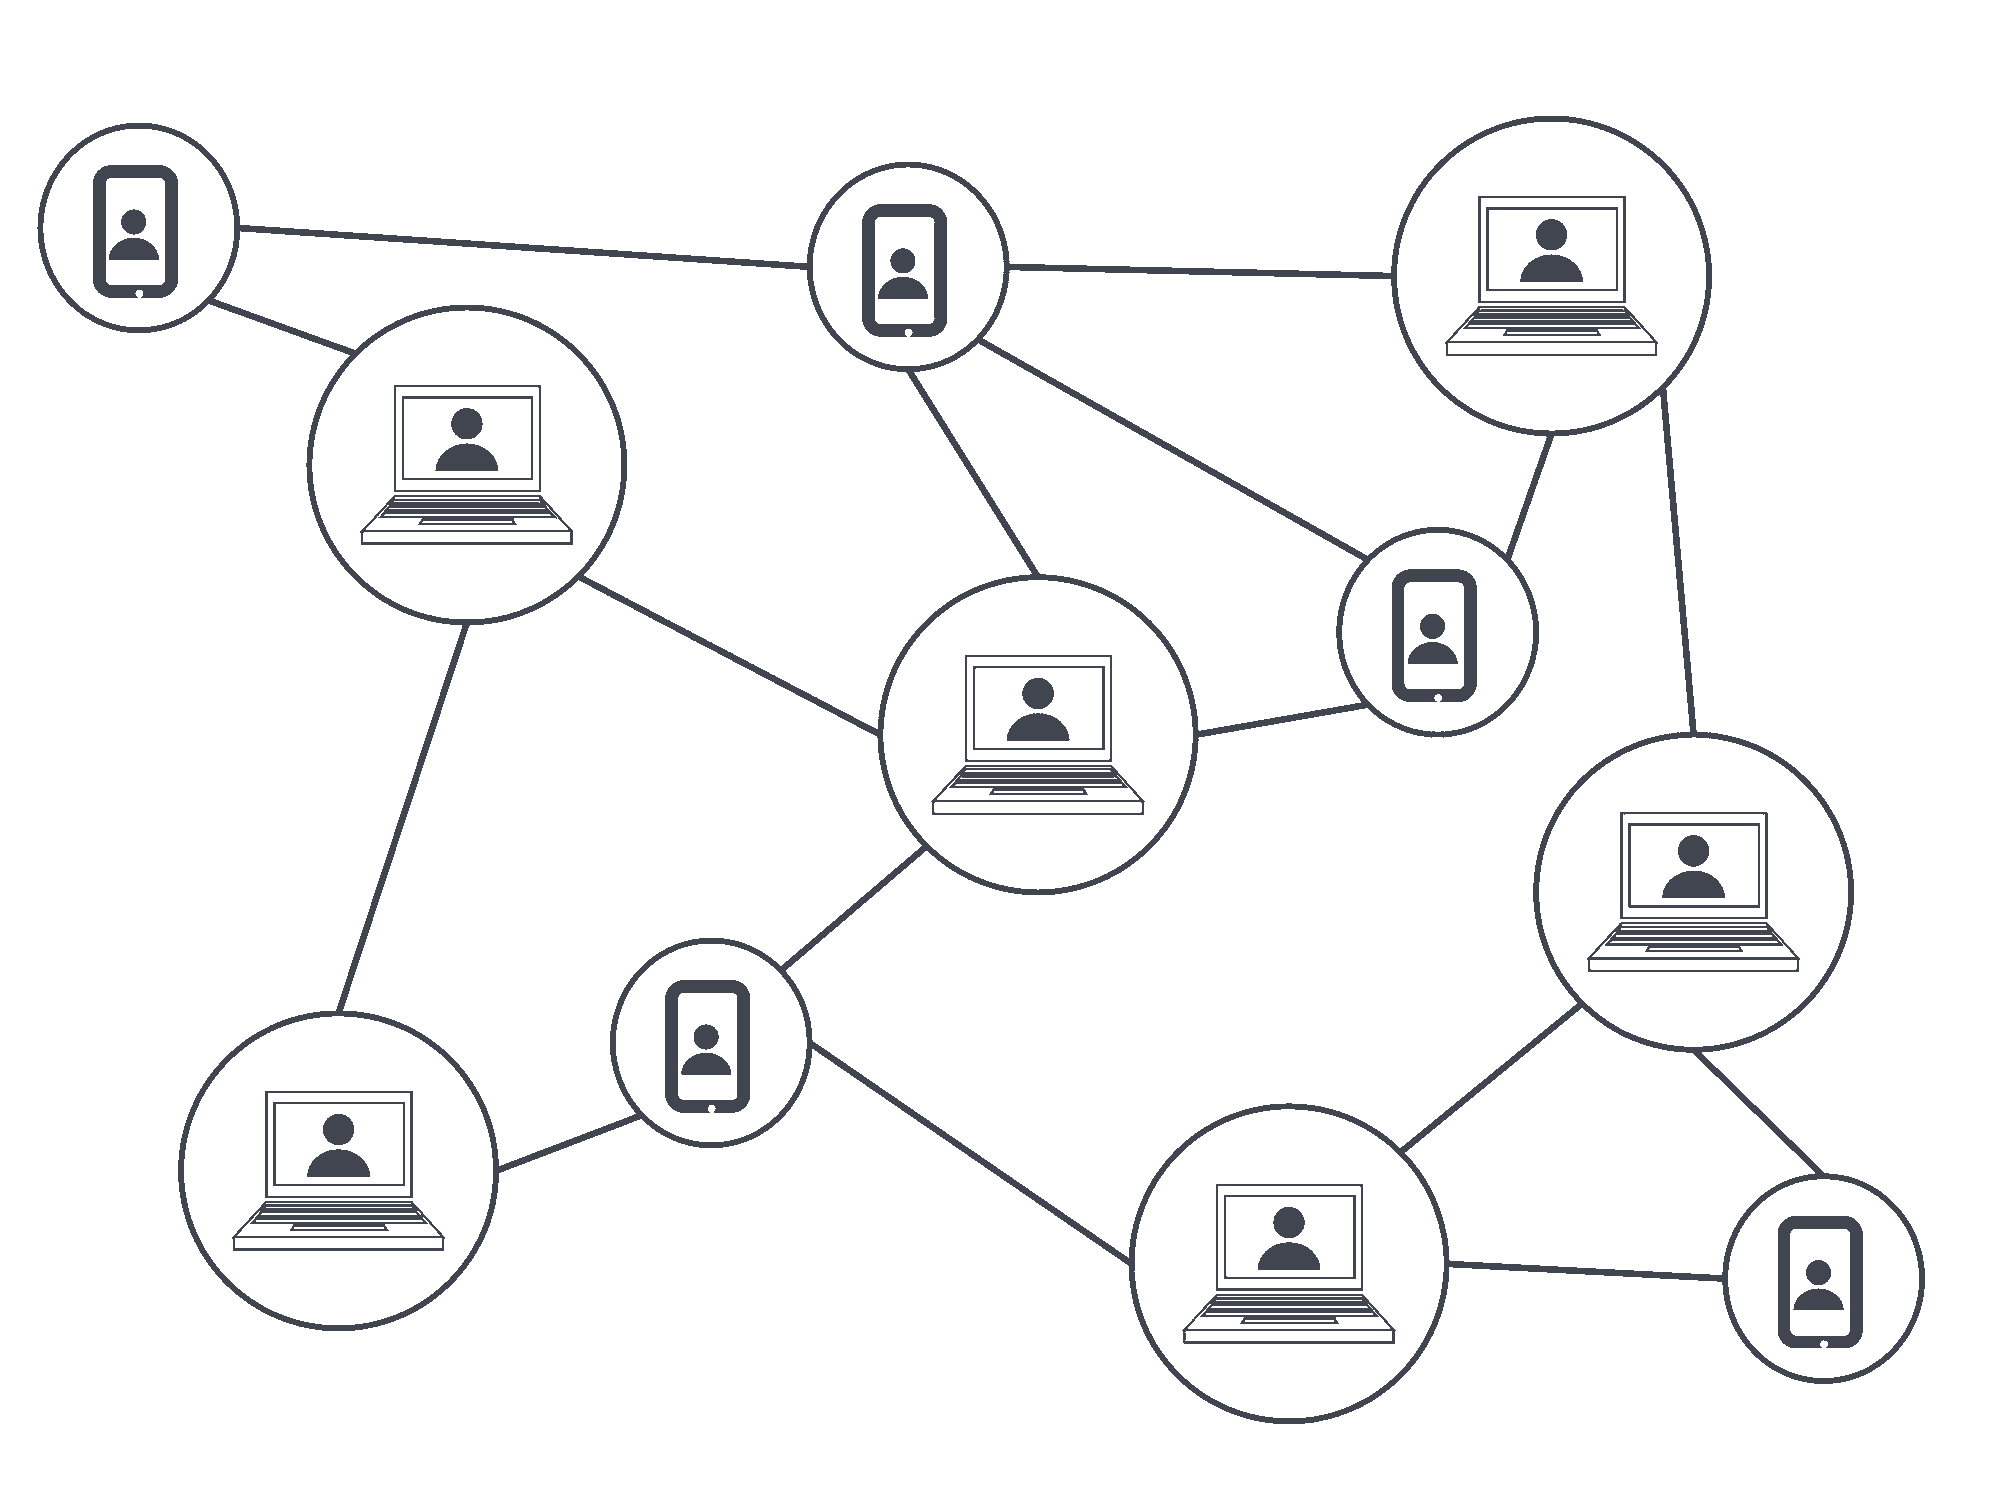
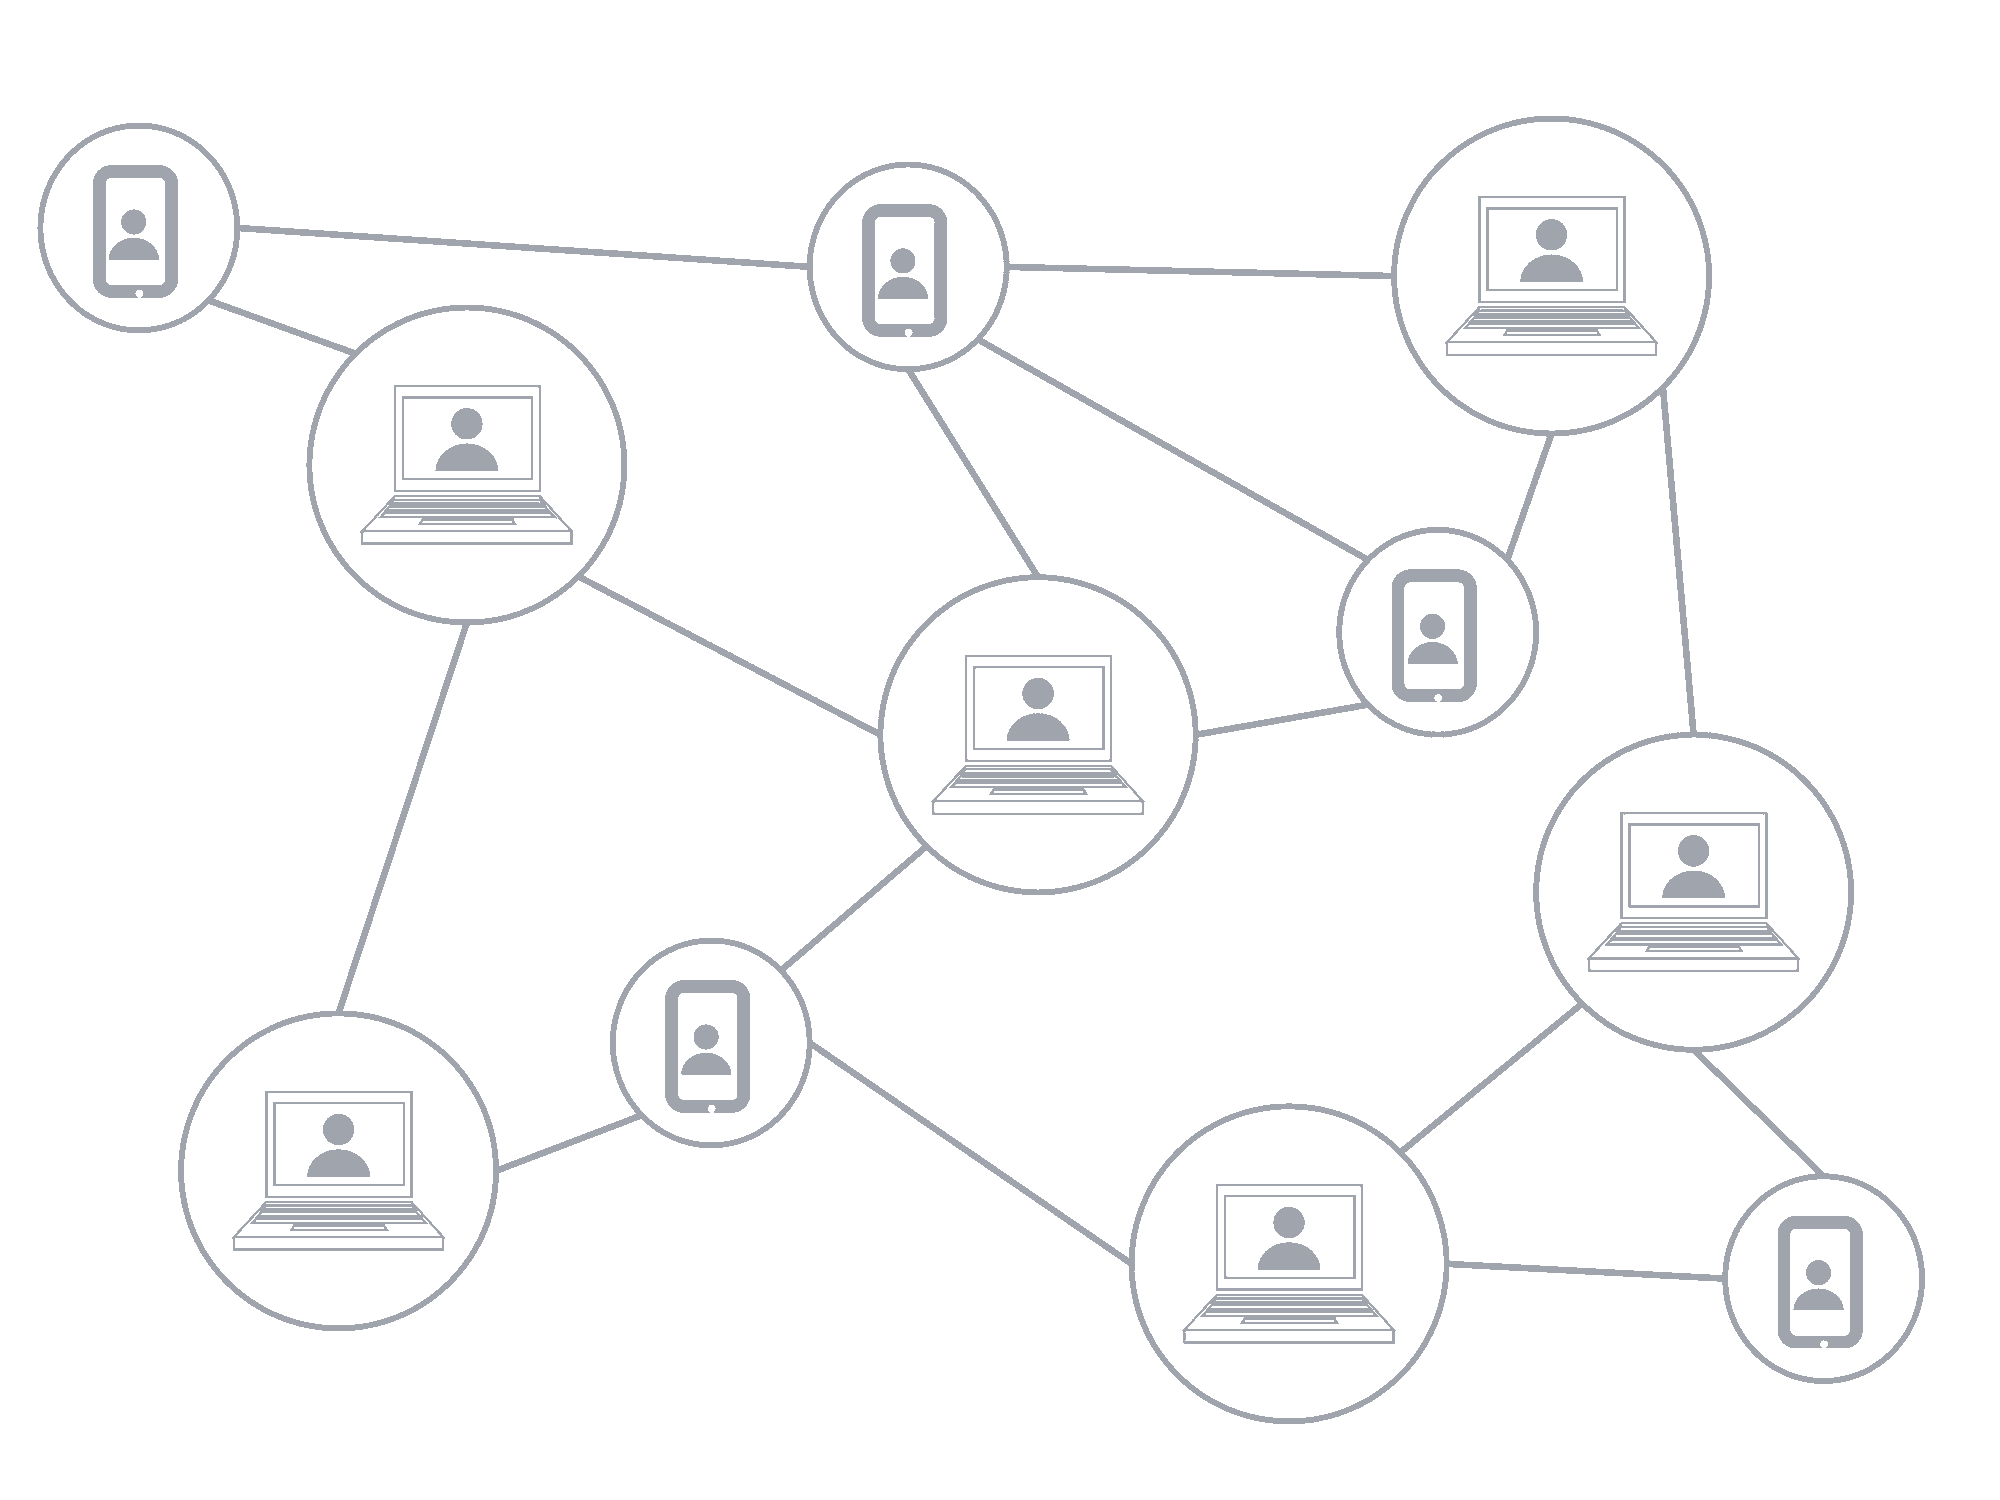
Adjusts color scheme and margins, adds new images

diff --git a/src/components/Home.js b/src/components/Home.js
@@ -3,15 +3,14 @@ import styled from 'styled-components'
 
 import Particles from '../containers/Particles'
 
-const logoImg = require('../media/logo.png')
-const blockchainImg = require('../media/blockchain.png')
+const globeImg = require('../media/globe.png')
 
 const HomeWrapper = styled.div`
   width: 100vw;
   min-height: 100vh;
 `
 
-const Main = styled.div`
+const Banner = styled.div`
   position: relative;
   display: flex;
   flex-direction: column;
@@ -19,9 +18,10 @@ const Main = styled.div`
   align-items: center;
   width: 100vw;
   height: 100vh;
+  background: linear-gradient(to bottom right, #2b3548, #0d1222);
 `
 
-const Content = styled.div`
+const Header = styled.div`
   position: absolute;
   max-width: 800px;
   margin: 10px 0 0 0;
@@ -33,43 +33,30 @@ const Content = styled.div`
   text-align: center;
 `
 
-const Logo = styled.img`
-  width: 9.02vh;
-  height: 10.38vh;
-`
-
-const Divider = styled.hr`
-  width: 5vw;
-  height: 2px;
-  background: ${props => props.hidden ? 'none' : 'rgba(85,138,242, 1)'};
-  border: none;
-`
-
 const Title = styled.h1`
   margin: 1vw 4vw 1vw 4vw;
   padding: 0;
   line-height: 1;
   font-size: 3rem;
   border-radius: 50px;
-  color: #404550;
+  color: #edf6fe;
 `
 
-const Description = styled.p`
+const Subtitle = styled.p`
   margin: 1vw 4vw 1vw 4vw;
   padding: 0;
   line-height: 1.5;
   max-width: 800px;
   border-radius: 50px;
-  color: #404550;
-  background: rgba(240,243,246, 0.8);
+  color: #e5eef5;
 `
 
-const Grid = styled.div`
+const Section = styled.div`
   display: grid;
   grid-template-columns: repeat(auto-fill, 50%);
   padding: 5vh 15vw 5vh 15vw;
-  color: #404550;
-  background: #A6B7D8;
+  color: #2e3b4c;
+  background: #f9f9fb;
   @media (max-width: 650px) {
     grid-template-columns: repeat(auto-fill, 100%);
   }
@@ -82,6 +69,10 @@ const Details = styled.div`
   min-height: 30vw;
 `
 
+const Paragraph = styled.p`
+  color: #a0a4ad;
+`
+
 const ImageWrapper = styled.div`
   display: flex;
   flex-direction: column;
@@ -90,45 +81,43 @@ const ImageWrapper = styled.div`
   min-height: 30vw;
 `
 
-const Image = styled.img`
+const Globe = styled.img`
   min-width: 200px;
   width: 30vw;
-  min-height: 150px;
-  height: 22.5vw;
+  min-height: 200px;
+  height: 30vw;
 `
 
 const Home = () =>
   <HomeWrapper>
-    <Main>
+    <Banner>
       <Particles />
-      <Content>
-        <Logo alt='company logo' src={logoImg} />
-        <Divider />
-        <Title>Faux Blockchain Services</Title>
-        <Description>
+      <Header>
+        <Title>Blockchain Solutions for the Modern World</Title>
+        <Subtitle>
           Lorem ipsum dolor sit amet, consectetur adipiscing elit, sed do eiusmod
           tempor incididunt ut labore et dolore magna aliqua. Ut enim ad minim
           veniam, quis nostrud exercitation ullamco laboris nisi ut aliquip ex ea
           commodo consequat. Duis aute irure dolor in reprehenderit in voluptate
           velit esse cillum dolore eu fugiat nulla pariatur.
-        </Description>
-      </Content>
-    </Main>
-    <Grid>
+        </Subtitle>
+      </Header>
+    </Banner>
+    <Section>
       <Details>
         <h1>Nulla Pariatur</h1>
-        <p>
+        <Paragraph>
           Lorem ipsum dolor sit amet, consectetur adipiscing elit, sed do eiusmod
           tempor incididunt ut labore et dolore magna aliqua. Ut enim ad minim
           veniam, quis nostrud exercitation ullamco laboris nisi ut aliquip ex ea
           commodo consequat. Duis aute irure dolor in reprehenderit in voluptate
           velit esse cillum dolore eu fugiat nulla pariatur.
-        </p>
+        </Paragraph>
       </Details>
       <ImageWrapper>
-        <Image src={blockchainImg} />
+        <Globe src={globeImg} />
       </ImageWrapper>
-    </Grid>
+    </Section>
   </HomeWrapper>
 
 export default Home

diff --git a/src/components/Services.js b/src/components/Services.js
@@ -11,19 +11,28 @@ const ServicesWrapper = styled.div`
 const Main = styled.div`
   width: 100vw;
   padding: 15vh 15vw 5vh 15vw;
+  background: linear-gradient(to bottom right, #2b3548, #0d1222);
 `
 
 const Grid = styled.div`
   display: grid;
   grid-template-columns: repeat(3, 33.3%);
   padding: 0 15vw 5vh 15vw;
-  background: #A6B7D8;
+  background: #f9f9fb;
   @media (max-width: 799px) {
     grid-template-columns: repeat(auto-fill, 50%);
   }
   @media (max-width: 450px) {
     grid-template-columns: repeat(auto-fill, 100%);
   }
+`
+
+const Title = styled.h1`
+  color: #edf6fe;
+`
+
+const Paragraph = styled.p`
+  color: #e5eef5;
 `
 
 const Column = styled.div`
@@ -33,8 +42,8 @@ const Column = styled.div`
 const Services = () =>
   <ServicesWrapper>
     <Main>
-      <h1>Services</h1>
-      <p>
+      <Title>Services</Title>
+      <Paragraph>
         Lorem ipsum dolor sit amet, consectetur adipiscing elit, sed do eiusmod
         tempor incididunt ut labore et dolore magna aliqua. Ut enim ad minim
         veniam, quis nostrud exercitation ullamco laboris nisi ut aliquip ex ea
@@ -42,8 +51,8 @@ const Services = () =>
         velit esse cillum dolore eu fugiat nulla pariatur. Excepteur sint occaecat
         cupidatat non proident, sunt in culpa qui officia deserunt mollit anim id
         est laborum.
-      </p>
-      <p>
+      </Paragraph>
+      <Paragraph>
         Sed ut perspiciatis unde omnis iste natus error sit voluptatem accusantium
         doloremque laudantium, totam rem aperiam, eaque ipsa quae ab illo
         inventore veritatis et quasi architecto beatae vitae dicta sunt explicabo.
@@ -56,7 +65,7 @@ const Services = () =>
         laboriosam, nisi ut aliquid ex ea commodi consequatur? Quis autem vel eum
         iure reprehenderit qui in ea voluptate velit esse quam nihil molestiae
         consequatur, vel illum qui dolorem eum fugiat quo voluptas nulla pariatur?
-      </p>
+      </Paragraph>
     </Main>
     <Grid>
       <Column>

diff --git a/src/components/Team.js b/src/components/Team.js
@@ -16,6 +16,8 @@ const TeamWrapper = styled.div`
 
 const Header = styled.div`
   padding: 15vh 15vw 5vh 15vw;
+  color: #FFF;
+  background: linear-gradient(to bottom right, #2b3548, #0d1222);
 `
 
 const Grid = styled.div`
@@ -23,7 +25,7 @@ const Grid = styled.div`
   grid-template-columns: repeat(auto-fill, minmax(250px, 1fr));
   margin: 0;
   padding: 5vh 15vw 5vh 15vw;
-  background: #A6B7D8;
+  background: #f9f9fb;
 `
 
 const Column = styled.div`
@@ -43,11 +45,13 @@ const Portrait = styled.img`
 const Name = styled.h4`
   margin: 10px 0 5px 0;
   padding: 0;
+  color: #2e3b4c;
 `
 
 const Role = styled.p`
   margin: 5px 0 25px 0;
   padding: 0;
+  color: #a0a4ad;
 `
 
 const data = [

diff --git a/src/components/Footer.js b/src/components/Footer.js
@@ -10,7 +10,7 @@ const logoImg = require('../media/logo.png')
 
 const FooterWrapper = styled.div`
   width: 100vw;
-  background: #202530;
+  background: linear-gradient(to bottom right, #2b3548, #0d1222);
 `
 
 const Grid = styled.div`
@@ -39,8 +39,8 @@ const Column = styled.div`
 const FooterLink = styled(Link)`
   font-size: 0.9rem;
   text-decoration: none;
-  color: #AAB3C1;
-  &:hover { color: #558AF2; }
+  color: #a4adb6;
+  &:hover { color: #FFF; }
 `
 
 const Logo = styled.img`

diff --git a/src/components/Menu.js b/src/components/Menu.js
@@ -42,8 +42,8 @@ const Logo = styled.img`
 
 const MenuLink = styled(NavLink)`
   text-decoration: none;
-  color: #404550;
-  &:hover { color: rgba(85,138,242,1); }
+  color: #a4adb6;
+  &:hover { color: #FFF; }
 `
 
 const Menu = () =>

diff --git a/src/styles/index.css b/src/styles/index.css
@@ -11,7 +11,6 @@ html {
 body {
   margin: 0;
   padding: 0;
-  background: #F0F3F6;
 }
 
 h1, h2, h3, h4, h5, h6 {
